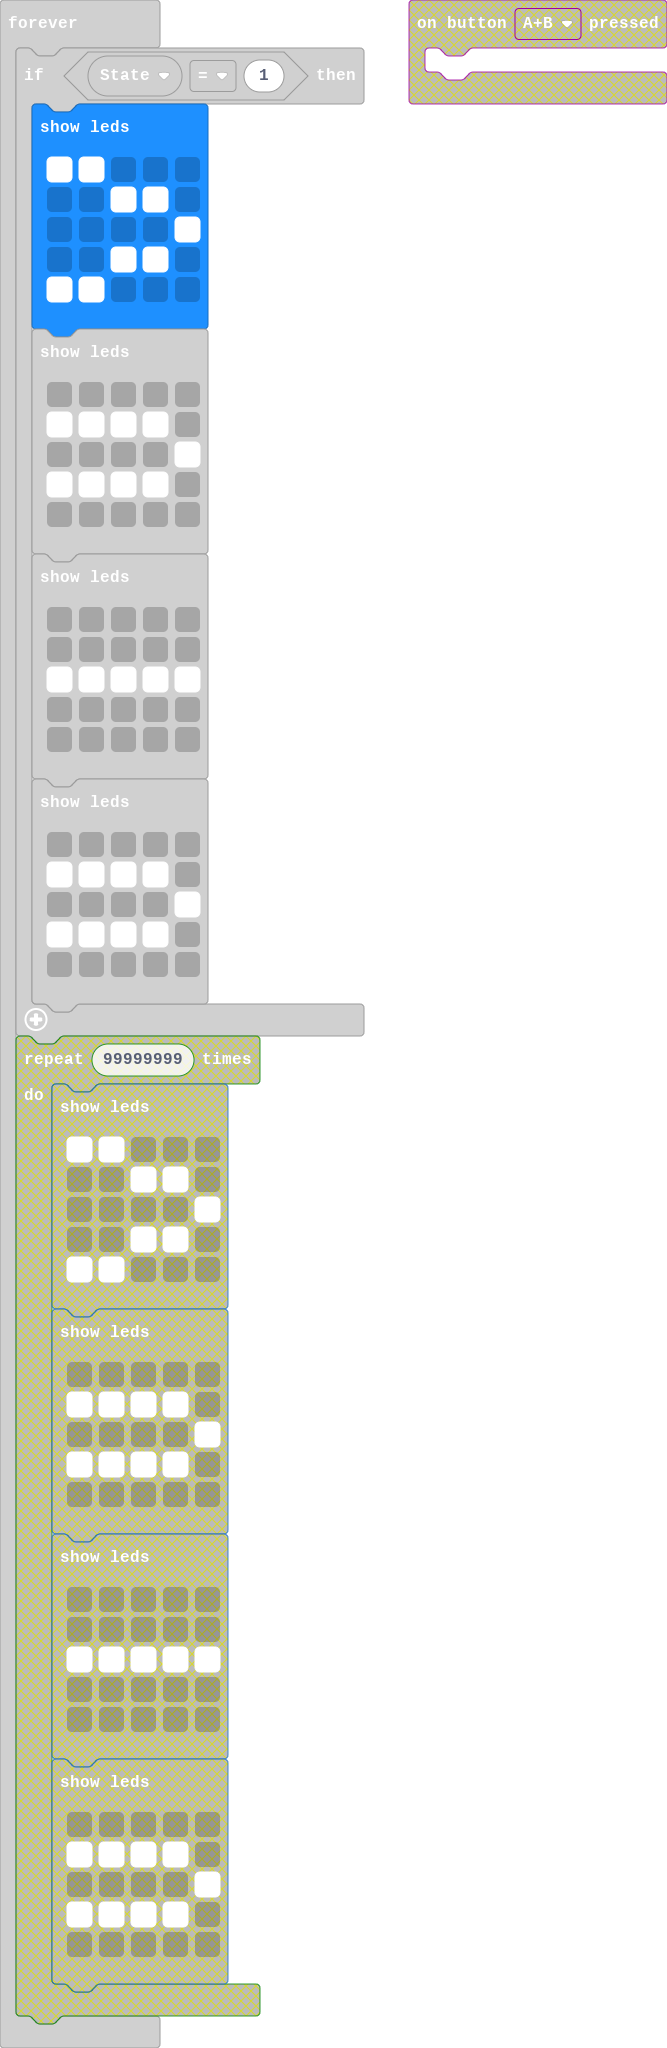
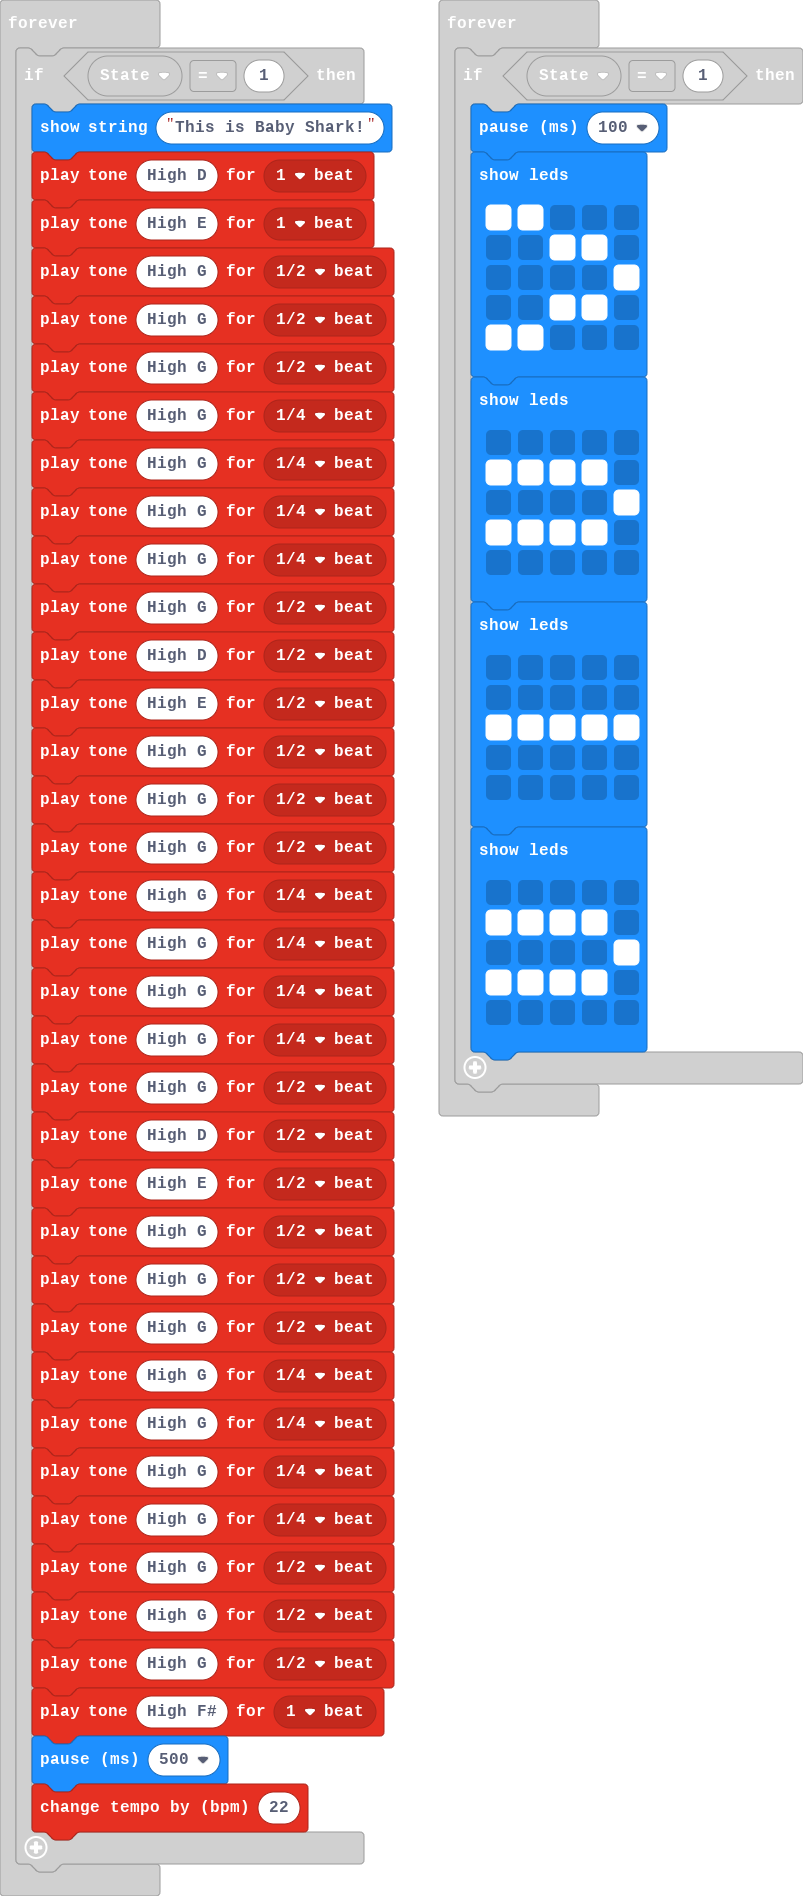
All done!

diff --git a/main.ts b/main.ts
@@ -9,6 +9,7 @@ music.setTempo(85)
 State = 0
 basic.forever(function () {
     if (State == 1) {
+        basic.showString("This is Baby Shark!")
         music.playTone(587, music.beat(BeatFraction.Whole))
         music.playTone(659, music.beat(BeatFraction.Whole))
         music.playTone(784, music.beat(BeatFraction.Half))
@@ -48,6 +49,7 @@ basic.forever(function () {
 })
 basic.forever(function () {
     if (State == 1) {
+        basic.pause(100)
         basic.showLeds(`
             # # . . .
             . . # # .
